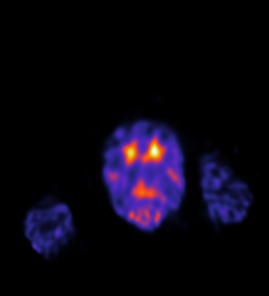
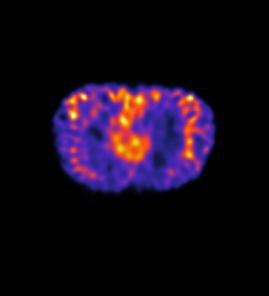
Fixed cardiac axis visualizations

Changed region(s): [[0.1784, 0.2736, 0.9517, 0.7905], [0.0892, 0.6385, 0.2974, 0.8818]]

diff --git a/model.py b/model.py
@@ -103,9 +103,9 @@ class Model:
     def get_coronal_img(self):
         return np.flip(self.img.transpose((1,2,0)), 1)
     def get_short_axs_img(self):
-        return self.reoriented.transpose((2,1,0))
+        return np.flip(self.reoriented.transpose((2,1,0)), 2)
     def get_hla_img(self):
-        return np.flip(self.reoriented.transpose((1,2,0)), 1)
+        return np.flip(self.reoriented.transpose((1,2,0)), (1,2))
     def get_vla_img(self):
         return self.reoriented.transpose((0,1,2))
 
